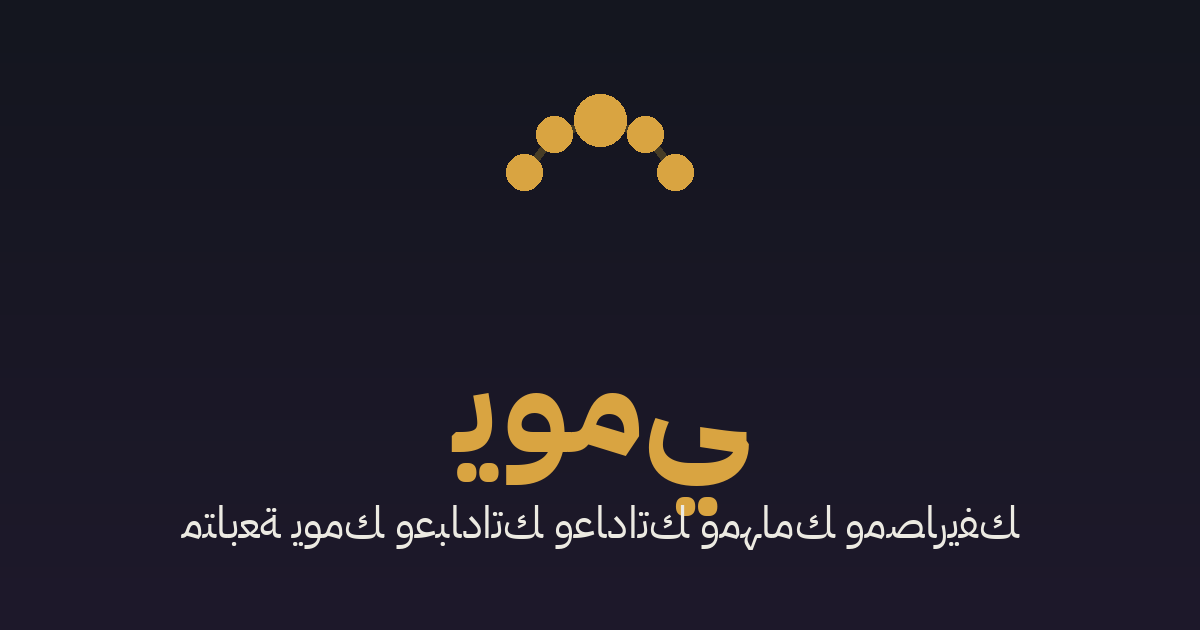
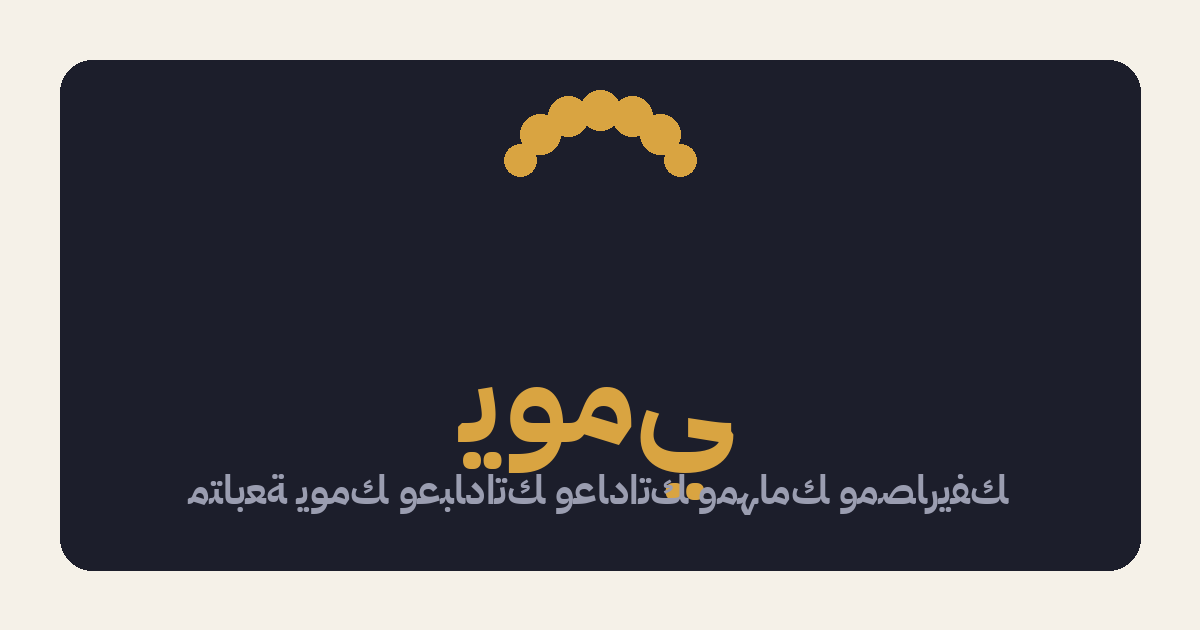
إصلاح صورة المعاينة: كلمة يومي بحروف عربية متصلة صح

diff --git a/index.html b/index.html
@@ -10,7 +10,7 @@
 <meta property="og:type" content="website">
 <meta property="og:title" content="يومي — متابعة يومك وعباداتك">
 <meta property="og:description" content="متابعة يومك وعباداتك وعاداتك ومهامك ومصاريفك وأهدافك، وكتابة اليوميات — كله بالعربي وشغال أوفلاين.">
-<meta property="og:image" content="https://oniseg.github.io/yawmi/og-image.png">
+<meta property="og:image" content="https://oniseg.github.io/yawmi/og-image.png?v=2">
 <meta property="og:image:width" content="1200">
 <meta property="og:image:height" content="630">
 <meta property="og:url" content="https://oniseg.github.io/yawmi/">
@@ -18,7 +18,7 @@
 <meta name="twitter:card" content="summary_large_image">
 <meta name="twitter:title" content="يومي — متابعة يومك وعباداتك">
 <meta name="twitter:description" content="متابعة يومك وعباداتك وعاداتك ومهامك ومصاريفك وأهدافك — كله بالعربي.">
-<meta name="twitter:image" content="https://oniseg.github.io/yawmi/og-image.png">
+<meta name="twitter:image" content="https://oniseg.github.io/yawmi/og-image.png?v=2">
 <link rel="manifest" href="manifest.json">
 <link rel="apple-touch-icon" href="icon-192.png">
 <link rel="icon" href="icon-192.png">

diff --git a/sw.js b/sw.js
@@ -1,4 +1,4 @@
-const CACHE = 'yawmi-v59';
+const CACHE = 'yawmi-v60';
 const ASSETS = ['./', './index.html', './manifest.json', './icon-192.png', './icon-512.png'];
 
 self.addEventListener('install', e => {